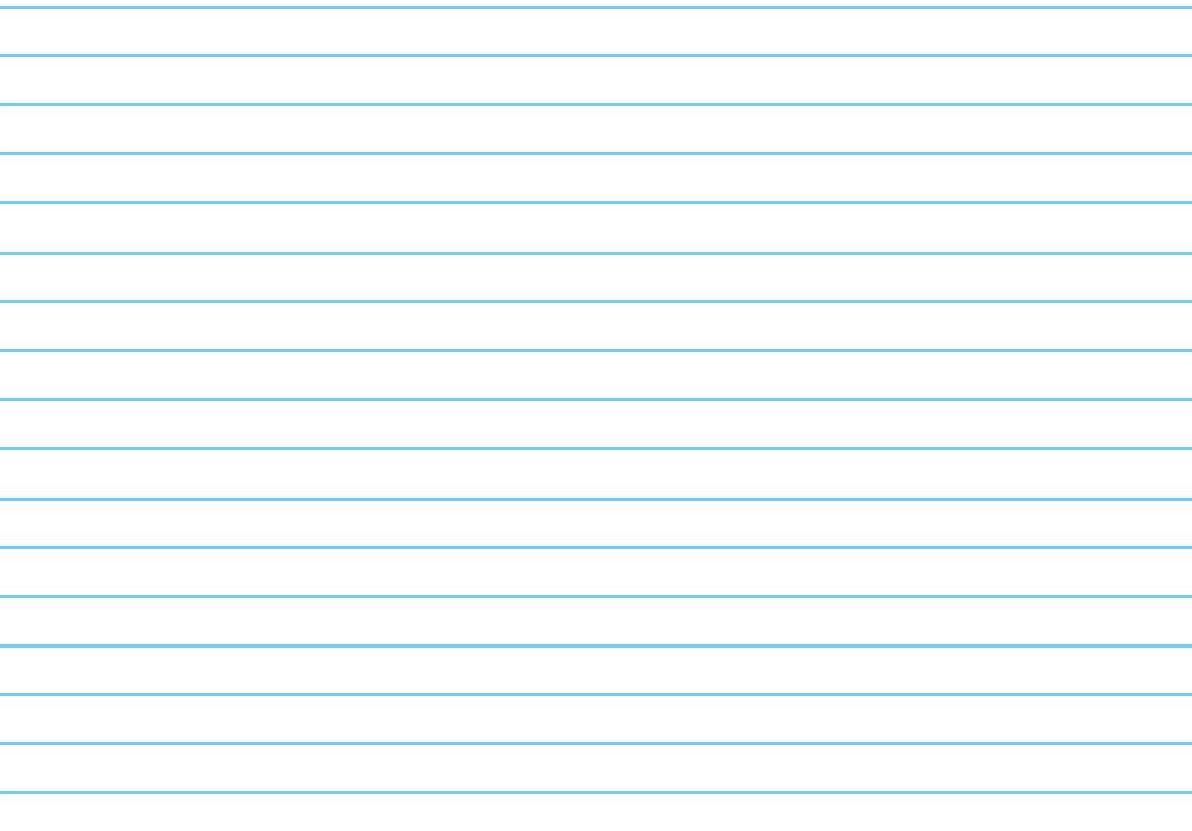
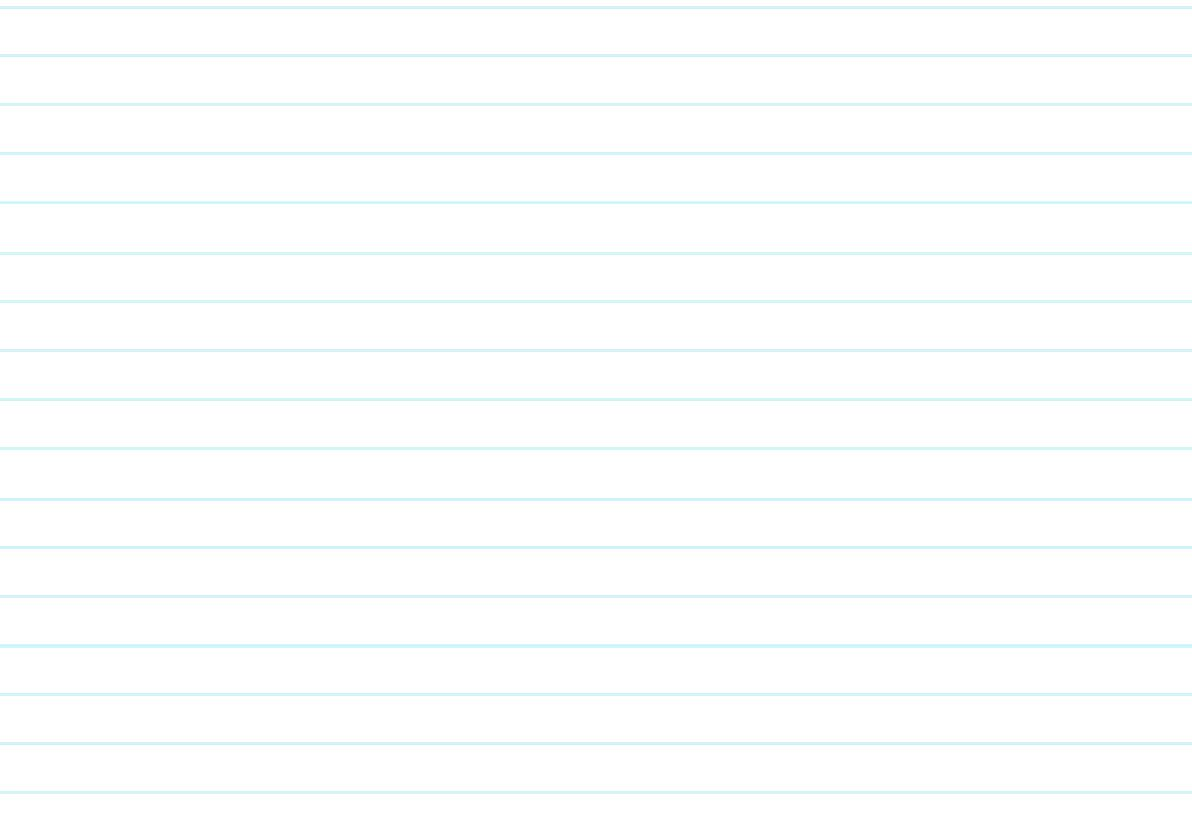
ligthened the background image

diff --git a/public/styles.css b/public/styles.css
@@ -4,18 +4,14 @@
     margin:0;
 }
 body {
-    /* margin: 0;
-    padding: 0;
-    box-sizing: border-box; */
     text-align: center;
     font-family: 'Dancing Script', cursive;
+    background-image: url('background1.jpeg');
 }
 /* rules for mobile users. use a media.query to see which one to use. */
 .container {
     display: flex;
     flex-direction: column;
-    background-image: url('background1.jpeg');
-    opacity: 0.5;
 }
 /* rules for all other users */
 @media all and (min-width: 768px) {
@@ -24,11 +20,11 @@ body {
         flex-wrap: wrap;
     }
     header,
+    main,
     footer {
         width: 100%;
     }
     main {
-        /* flex: 2; */
         display: flex;
         flex-wrap: wrap;
         justify-content: center;
@@ -42,81 +38,7 @@ body {
         text-align: start;
         padding: 1.5rem;
     }
-    /* .left-sidebar {
-        order: 1;
-        flex: 1;
-    }
-    .right-sidebar {
-        flex: 1;
-        order: 3;
-    } */
     footer {
-        order: 4;
+        order: 3;
     }
 }
-/* .headerContainer {
-    display: flex;
-    background-color: white;
-    flex-direction: column;
-} */
-/* .title {
-    display: flex;
-    justify-content: center;
-}
-h1 {
-}
-.search {
-    margin: auto;
-}
-#searchBox {
-    margin: 5px;
-}
-#searchButton {
-    margin: 5px;
-}
-.bodyContainer {
-    height: 42em;
-    margin-top: 45px;
-}
-.inputContainer {
-    display: flex;
-    justify-content: center;
-}
-form {
-    
-}
-#subjectBox {
-    margin: 10px;
-}
-#postText {
-    margin: 10px;
-}
-#post {
-    margin: 10px;
-}
-#results {
-    display: flex;
-    flex-direction: column;
-    flex-wrap: wrap;
-    align-content: center;
-    margin-top: 50px;
-}
-.header {
-    margin: 10px;
-}
-#searchResults {
-    display: flex;
-    flex-direction: column;
-    flex-wrap: wrap;
-    align-content: center;
-    margin-top: 50px;
-}
-#footer {
-    margin-bottom: 0em;
-}
-.footerContainer {
-    display: flex;
-    flex-direction: column;
-    align-content: center;
-    margin: auto;
-} */
